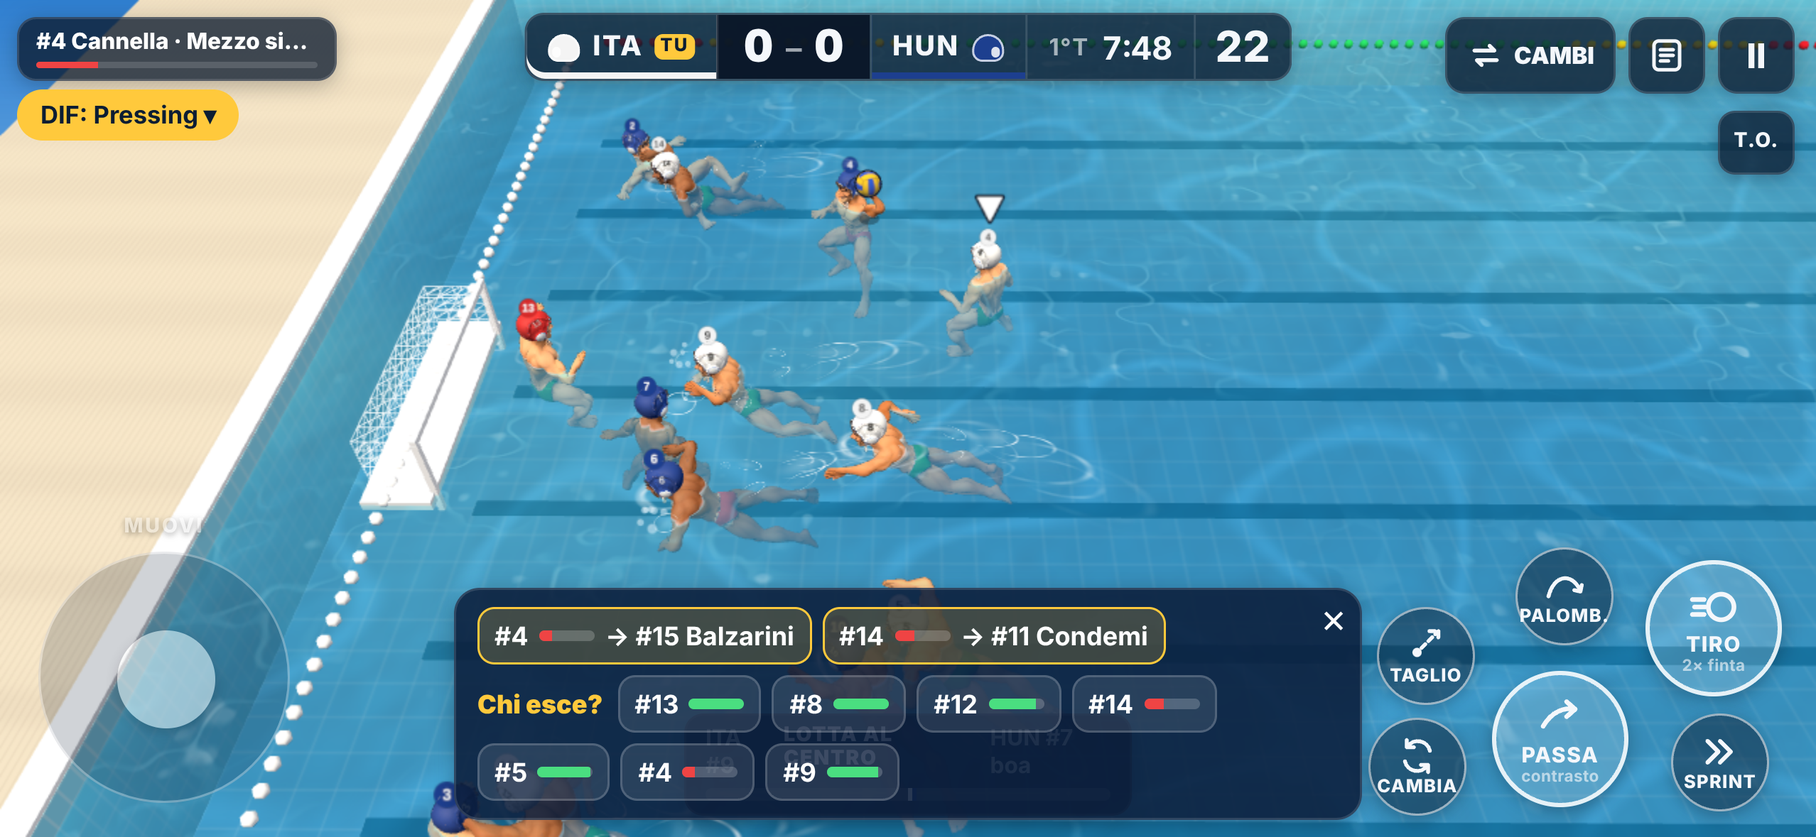
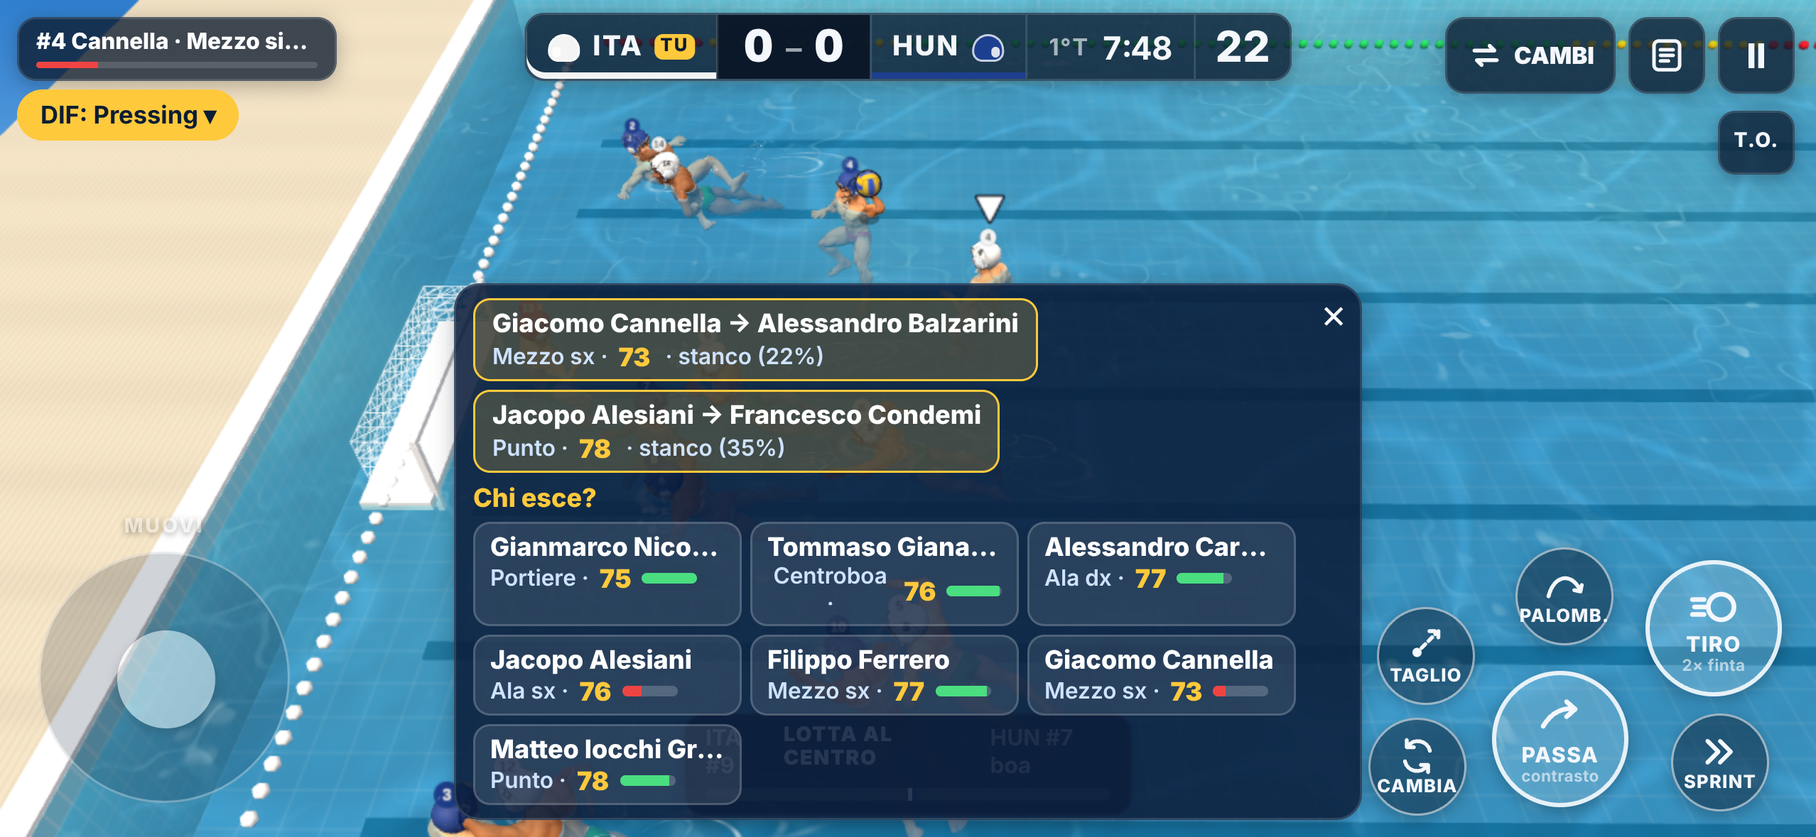
v0.34: cambi dal menu di pausa, nomi completi, ruolo e valutazione nei cambi, consigli con il motivo
- Il pulsante Cambi e panchina era finito nella prima pagina: ora sta nel menu di pausa
- Barra dei cambi volanti con nome e cognome, ruolo, valutazione e stamina
- Consigli con il motivo: stanco, 2 falli gravi, partita storta, chi in panchina ora rende di più; stesso ruolo prima

Claude-Session: https://claude.ai/code/session_01XAJhVTigiGoNKwMZvUN4DX

Changed region(s): [[0.2473, 0.3359, 0.7727, 0.9771]]

diff --git a/src/panchinaVista.js b/src/panchinaVista.js
@@ -2,14 +2,14 @@
 // e gol; suggerimenti per chi è stanco; si sceglie chi esce e chi entra e il cambio volante parte quando si riprende a giocare.
 import { CHIAVE, RUOLI, STAT_NOMI } from './dati/rose.js';
 import { iconaMano } from './mano.js';
-import { PANCHINA, annullaRichiesta, chiediCambio, suggerimento } from './panchina.js';
+import { PANCHINA, RUOLI_BREVI, annullaRichiesta, chiediCambio, consigli } from './panchina.js';
 import { teams } from './stato.js';
 let sel = null;      // giocatore in acqua scelto per uscire
 const barra = s => { const v = Math.round((s ?? 1) * 100); return `<span class="pc-bar ${v < PANCHINA.stanco * 100 ? 'stanco' : v < 65 ? 'medio' : ''}"><i style="width:${v}%"></i></span><b class="pc-pct">${v}%</b>`; };
 const chiave = g => CHIAVE[g.ruolo].map(k => `${STAT_NOMI[k].slice(0, 3).toUpperCase()} ${g.s[k]}`).join(' · ');
 function riga(g, extra, cls, attr) {
   return `<button type="button" class="pc-g ${cls}" ${attr}><span class="pc-num">${g.num}</span>`
-    + `<span class="pc-nome">${g.nome}${iconaMano(g.mano)}<small>${RUOLI[g.ruolo]} · OVR ${g.ovr}${g.gol ? ` · ${g.gol} gol` : ''}${g.pf ? ` · ${g.pf} falli gravi` : ''}</small></span>`
+    + `<span class="pc-nome">${g.nomeIntero || g.nome}${iconaMano(g.mano)}<small>${RUOLI[g.ruolo]} · OVR ${g.ovr}${g.tiriP ? ` · ${g.gol || 0} gol su ${g.tiriP} tiri` : g.gol ? ` · ${g.gol} gol` : ''}${g.pf ? ` · ${g.pf} falli gravi` : ''}</small></span>`
     + `<span class="pc-stat">${chiave(g)}</span><span class="pc-stam">${barra(g.stamina)}</span>${extra || ''}</button>`;
 }
 export function disegnaPanchina() {
@@ -18,14 +18,11 @@ export function disegnaPanchina() {
   for (const p of t.players) if (p.scheda) p.scheda.stamina = p.stamina;
   const coda = t.coda || [];
   const inCoda = p => coda.find(x => x.esce === p), entraCoda = g => coda.find(x => x.entra === g);
-  // suggerimenti: prima i più stanchi, ogni riserva proposta una volta sola
-  const usate = new Set(coda.map(x => x.entra)), sugg = [];
-  for (const p of [...t.players].sort((a, b) => a.stamina - b.stamina)) {
-    if (inCoda(p) || p.isGK) continue;
-    const g = suggerimento(p, usate); if (g) { usate.add(g); sugg.push({ p, g }); }
-  }
+  // consigli con il motivo (stanco, chi rende di più, partita storta, falli): ogni riserva proposta una volta sola
+  const sugg = consigli(t, 4);
   let h = '';
-  if (sugg.length) h += `<div class="pc-sugg"><b>Consigliati</b>${sugg.map(x => `<button type="button" class="pc-cons" data-esce="${x.p.i}" data-entra="${x.g.num}">#${x.p.num} ${x.p.name} è stanco (${Math.round(x.p.stamina * 100)}%) → entra #${x.g.num} ${x.g.nome} <em>Cambia</em></button>`).join('')}</div>`;
+  if (sugg.length) h += `<div class="pc-sugg"><b>Consigliati</b>${sugg.map(x => `<button type="button" class="pc-cons" data-esce="${x.p.i}" data-entra="${x.g.num}"><span>Esce <strong>${x.p.scheda.nomeIntero || x.p.name}</strong> (${RUOLI_BREVI[x.p.scheda.ruolo]} · ${x.p.ovr}) → entra <strong>${x.g.nomeIntero || x.g.nome}</strong> (${RUOLI_BREVI[x.g.ruolo]} · ${x.g.ovr})<small>${x.motivo}</small></span><em>Cambia</em></button>`).join('')}</div>`;
+  else h += `<div class="pc-sugg"><b>Consigliati</b><span class="pc-ok">Per ora nessun cambio necessario: tutti in forma.</span></div>`;
   if (coda.length) h += `<div class="pc-coda"><b>Cambi alla ripresa</b>${coda.map(x => `<span>esce #${x.esce.num} → entra #${x.entra.num} ${x.entra.nome} <button type="button" class="pc-x" data-annulla="${x.esce.i}" aria-label="Annulla">✕</button></span>`).join('')}</div>`;
   h += `<h3>In acqua <small>${sel ? `scegli chi entra al posto di #${sel.num}` : 'tocca chi vuoi far uscire'}</small></h3><div class="pc-lista">`;
   const bloccato = p => p.excluded && p.pf >= 3;      // terzo fallo grave: esce comunque, entra la riserva in automatico
@@ -69,13 +66,15 @@ export function disegnaCambi(forza = true) {
   }
   const coda = t.coda || [], C = t.cambio;
   const inCoda = p => coda.find(x => x.esce === p) || (C && C.esce === p), entraCoda = g => coda.find(x => x.entra === g) || (C && C.entra === g);
-  const usate = new Set([...coda.map(x => x.entra), ...(C ? [C.entra] : [])]), sugg = [];
-  for (const p of [...t.players].sort((a, b) => a.stamina - b.stamina)) { if (inCoda(p) || p.isGK) continue; const g = suggerimento(p, usate); if (g) { usate.add(g); sugg.push({ p, g }); } if (sugg.length >= 2) break; }
+  const sugg = consigli(t, 2);
+  // scheda di un giocatore: nome e cognome, ruolo, valutazione e stamina (quello che serve per decidere al volo)
+  const gio = (g, st, q) => `<span class="cr-nome">${g.nomeIntero || g.nome}</span><span class="cr-info">${RUOLI_BREVI[g.ruolo]} · <b>${g.ovr}</b> ${mini(st, q)}</span>`;
   let h = '<button type="button" class="cr-chiudi" data-chiudi aria-label="Chiudi">✕</button>';
-  if (C || coda.length) h += `<div class="cr-riga cr-corso">${C ? `<span>in corso: esce #${C.esce.num} → entra #${C.entra.num}</span>` : ''}${coda.map(x => `<span>esce #${x.esce.num} → entra #${x.entra.num} <button type="button" data-annulla="${x.esce.i}">✕</button></span>`).join('')}</div>`;
-  if (sugg.length && !selR) h += `<div class="cr-riga">${sugg.map(x => `<button type="button" class="cr-cons" data-esce="${x.p.i}" data-entra="${x.g.num}">#${x.p.num} ${mini(x.p.stamina, 'c' + x.p.i)} → #${x.g.num} ${x.g.nome}</button>`).join('')}</div>`;
-  if (!selR) h += `<div class="cr-riga"><b>Chi esce?</b>${t.players.map(p => { const no = (p.excluded && p.pf >= 3) || inCoda(p); return `<button type="button" class="cr-g${no ? ' no' : ''}" data-campo="${p.i}">#${p.num}${p.excluded ? '<em>pozz.</em>' : ''}${mini(p.stamina, 'c' + p.i)}</button>`; }).join('')}</div>`;
-  else h += `<div class="cr-riga"><b>Al posto di #${selR.num}:</b>${t.rosa.filter(g => !g.inAcqua && !g.fuori && (g.ruolo === 0) === selR.isGK && !entraCoda(g)).map(g => `<button type="button" class="cr-g" data-riserva="${g.num}">#${g.num} ${g.nome}${mini(g.stamina, 'r' + g.num)}</button>`).join('') || '<span>nessuna riserva disponibile</span>'}<button type="button" class="cr-g no" data-indietro-c>‹</button></div>`;
+  const nomeDi = p => (p.scheda && p.scheda.nomeIntero) || p.name;
+  if (C || coda.length) h += `<div class="cr-riga cr-corso">${C ? `<span>in corso: esce ${nomeDi(C.esce)} → entra ${C.entra.nomeIntero || C.entra.nome}</span>` : ''}${coda.map(x => `<span>esce ${nomeDi(x.esce)} → entra ${x.entra.nomeIntero || x.entra.nome} <button type="button" data-annulla="${x.esce.i}">✕</button></span>`).join('')}</div>`;
+  if (sugg.length && !selR) h += `<div class="cr-riga cr-consigli">${sugg.map(x => `<button type="button" class="cr-cons" data-esce="${x.p.i}" data-entra="${x.g.num}"><span class="cr-nome">${nomeDi(x.p)} → ${x.g.nomeIntero || x.g.nome}</span><span class="cr-info">${RUOLI_BREVI[x.g.ruolo]} · <b>${x.g.ovr}</b> · ${x.motivo}</span></button>`).join('')}</div>`;
+  if (!selR) h += `<div class="cr-tit">Chi esce?</div><div class="cr-griglia">${t.players.map(p => { const no = (p.excluded && p.pf >= 3) || inCoda(p); return `<button type="button" class="cr-g${no ? ' no' : ''}${p.excluded ? ' pozz' : ''}" data-campo="${p.i}">${gio(p.scheda, p.stamina, 'c' + p.i)}</button>`; }).join('')}</div>`;
+  else h += `<div class="cr-tit">Al posto di ${nomeDi(selR)} (${RUOLI_BREVI[selR.scheda.ruolo]} · ${selR.ovr}) entra: <button type="button" class="cr-ind" data-indietro-c>‹ indietro</button></div><div class="cr-griglia">${t.rosa.filter(g => !g.inAcqua && !g.fuori && (g.ruolo === 0) === selR.isGK && !entraCoda(g)).sort((a, b) => b.ovr - a.ovr).map(g => `<button type="button" class="cr-g" data-riserva="${g.num}">${gio(g, g.stamina, 'r' + g.num)}</button>`).join('') || '<span>nessuna riserva disponibile</span>'}</div>`;
   box.innerHTML = h;
   const ok = () => { selR = null; disegnaCambi(); };
   box.querySelector('[data-chiudi]').onclick = () => apriCambi(false);

diff --git a/index.html b/index.html
@@ -73,7 +73,6 @@
     <div class="eroe" aria-hidden="true"><img src="./src/immagini/giocatore-home.webp" alt="" decoding="async"></div>
     <div class="h-azioni">
       <button type="button" class="m-cta" data-va="squadre"><span class="m-play"></span><span><b>Nuova partita</b><small>Scegli le squadre e gioca</small></span><i>›</i></button>
-      <button type="button" class="m-voce" data-va="panchina" id="vaiPanchina"><svg viewBox="0 0 24 24"><circle cx="8" cy="7.5" r="2.6" fill="currentColor"/><circle cx="16" cy="7.5" r="2.6" fill="currentColor"/><path d="M3.5 15.5c0-2.4 2-4 4.5-4s4.5 1.6 4.5 4M11.5 15.5c0-2.4 2-4 4.5-4s4.5 1.6 4.5 4M2.5 17.5h19M5 17.5v3M19 17.5v3" fill="none" stroke="currentColor" stroke-width="2" stroke-linecap="round"/></svg><span><b>Panchina</b><small>stamina e cambi</small></span><i>›</i></button>
       <button type="button" class="m-voce" data-va="comandi"><svg viewBox="0 0 24 24"><path d="M7 7.5h10a5.5 5.5 0 0 1 0 11c-1.8 0-2.8-1-3.6-2.1h-2.8C9.8 17.5 8.8 18.5 7 18.5a5.5 5.5 0 0 1 0-11z" fill="currentColor"/><path d="M7.5 10.5v4M5.5 12.5h4" stroke="#0b2a55" stroke-width="1.8" stroke-linecap="round"/><circle cx="16" cy="11.5" r="1.2" fill="#0b2a55"/><circle cx="18" cy="14" r="1.2" fill="#0b2a55"/></svg><span><b>Comandi</b><small>Impara le azioni di gioco</small></span><i>›</i></button>
       <button type="button" class="m-voce" data-va="info"><svg viewBox="0 0 24 24"><circle cx="9" cy="8" r="3.5" fill="currentColor"/><circle cx="17" cy="9" r="2.8" fill="currentColor"/><path d="M2.5 19c.6-3.6 3.2-5.5 6.5-5.5s5.9 1.9 6.5 5.5zM15.5 13.3c2.9-.3 5.4 1.3 6 4.7h-5" fill="currentColor"/></svg><span><b>Informazioni</b><small>Regole e suggerimenti</small></span><i>›</i></button>
     </div>
@@ -151,6 +150,7 @@
     <div class="pausa-punteggio" id="pausaPunteggio"></div>
     <div class="h-azioni">
       <button type="button" class="m-cta" id="riprendi"><span class="m-play"></span><span><b>Riprendi</b></span><i>›</i></button>
+      <button type="button" class="m-voce" data-va="panchina" id="vaiPanchina"><svg viewBox="0 0 24 24"><circle cx="8" cy="7.5" r="2.6" fill="currentColor"/><circle cx="16" cy="7.5" r="2.6" fill="currentColor"/><path d="M3.5 15.5c0-2.4 2-4 4.5-4s4.5 1.6 4.5 4M11.5 15.5c0-2.4 2-4 4.5-4s4.5 1.6 4.5 4M2.5 17.5h19M5 17.5v3M19 17.5v3" fill="none" stroke="currentColor" stroke-width="2" stroke-linecap="round"/></svg><span><b>Cambi e panchina</b><small>chi è stanco, chi entra</small></span><i>›</i></button>
       <button type="button" class="m-voce" data-va="comandi"><svg viewBox="0 0 24 24"><path d="M7 7.5h10a5.5 5.5 0 0 1 0 11c-1.8 0-2.8-1-3.6-2.1h-2.8C9.8 17.5 8.8 18.5 7 18.5a5.5 5.5 0 0 1 0-11z" fill="currentColor"/><path d="M7.5 10.5v4M5.5 12.5h4" stroke="#0b2a55" stroke-width="1.8" stroke-linecap="round"/><circle cx="16" cy="11.5" r="1.2" fill="#0b2a55"/><circle cx="18" cy="14" r="1.2" fill="#0b2a55"/></svg><span><b>Comandi</b></span><i>›</i></button>
       <button type="button" class="m-voce" data-va="opzioni"><svg viewBox="0 0 24 24"><path d="M12 8.5a3.5 3.5 0 1 0 0 7 3.5 3.5 0 0 0 0-7zm8.4 4.6l1.8 1.4-2 3.4-2.1-.8a7.6 7.6 0 0 1-1.9 1.1l-.3 2.3h-3.9l-.4-2.3a7.6 7.6 0 0 1-1.9-1.1l-2.1.8-2-3.4 1.8-1.4a7.7 7.7 0 0 1 0-2.2L1.8 9.6l2-3.4 2.1.8a7.6 7.6 0 0 1 1.9-1.1l.4-2.3h3.9l.3 2.3c.7.3 1.3.6 1.9 1.1l2.1-.8 2 3.4-1.8 1.4c.1.7.1 1.5 0 2.2z" fill="currentColor"/></svg><span><b>Opzioni</b></span><i>›</i></button>
     </div>
@@ -159,7 +159,7 @@
 
   <!-- PANCHINA (dalla pausa) -->
   <section class="vista" id="vPanchina">
-    <header class="m-testa"><button type="button" class="m-icona" data-indietro aria-label="Indietro">‹</button><h2>Panchina</h2></header>
+    <header class="m-testa"><button type="button" class="m-icona" data-indietro aria-label="Indietro">‹</button><h2>Cambi e panchina</h2></header>
     <div id="panchinaBox"></div>
   </section>
 

diff --git a/src/panchina.js b/src/panchina.js
@@ -136,3 +136,40 @@ export function aggiornaPanchina(dt, liberi = false) {
 }
 // dove deve andare chi sta uscendo (al posto del suo compito in campo)
 export function obiettivoUscita(p) { const Z = zonaCambi(p.team); return { x: Z.x, z: Z.z, sprint: true }; }
+
+// ---------- consigli per il giocatore (barra dei cambi e schermata Cambi e panchina) ----------
+// Tre motivi, con il più urgente per primo: è stanco; in panchina c'è chi adesso renderebbe di più (valutazione pesata
+// sulla stamina); sta giocando una partita storta (tanti tiri senza gol) o ha 2 falli gravi e rischia di uscire per sempre.
+export const RUOLI_BREVI = ['Portiere', 'Centroboa', 'Ala dx', 'Ala sx', 'Mezzo dx', 'Mezzo sx', 'Punto'];
+export const valoreAdesso = (ovr, stamina) => ovr * (0.8 + 0.2 * (stamina ?? 1));
+function migliorRiserva(t, p, usate) {
+  let best = null, bv = -1e9;
+  for (const g of t.rosa) {
+    if (g.inAcqua || g.fuori || usate.has(g) || (g.ruolo === 0) !== p.isGK) continue;
+    // stesso ruolo prima di tutto; poi lo stesso tipo (ala con ala, mezzo con mezzo, centroboa e punto tra loro); poi gli altri
+    const a = g.ruolo, b = p.scheda.ruolo, tipoR = r => r === 1 || r === 6 ? 'c' : r === 2 || r === 3 ? 'a' : 'm';
+    const v = valoreAdesso(g.ovr, g.stamina) + (a === b ? 12 : tipoR(a) === tipoR(b) ? 7 : 0);
+    if (v > bv) { bv = v; best = g; }
+  }
+  return best;
+}
+export function consigli(t, max = 3) {
+  const usate = new Set([...(t.coda || []).map(x => x.entra), ...(t.cambio ? [t.cambio.entra] : [])]);
+  const occupato = p => (t.coda || []).some(x => x.esce === p) || (t.cambio && t.cambio.esce === p);
+  const cand = [];
+  for (const p of t.players) {
+    if (p.isGK || !p.scheda || occupato(p) || (p.excluded && (p.pf >= 3 || !p.alPozzetto))) continue;
+    const g = migliorRiserva(t, p, usate); if (!g) continue;
+    const ora = valoreAdesso(p.ovr, p.stamina), dopo = valoreAdesso(g.ovr, g.stamina), sc = p.scheda;
+    let motivo = null, peso = 0;
+    if (p.stamina < 0.5 && dopo > ora - 4) { motivo = `stanco (${Math.round(p.stamina * 100)}%)`; peso = 60 + (0.5 - p.stamina) * 100; }
+    else if (p.pf >= 2) { motivo = '2 falli gravi: al terzo esce per sempre'; peso = 40; }
+    else if ((sc.tiriP || 0) >= 4 && !(sc.gol)) { motivo = `partita storta (0 gol su ${sc.tiriP} tiri)`; peso = 30; }
+    else if (dopo > ora + 3) { motivo = `in panchina c'è chi ora rende di più (${Math.round(dopo)} contro ${Math.round(ora)})`; peso = 10 + dopo - ora; }
+    if (motivo) cand.push({ p, g, motivo, peso });
+  }
+  cand.sort((a, b) => b.peso - a.peso);
+  const out = [], prese = new Set();
+  for (const c of cand) { let g = c.g; if (prese.has(g)) { g = migliorRiserva(t, c.p, new Set([...usate, ...prese])); if (!g) continue; } prese.add(g); out.push({ ...c, g }); if (out.length >= max) break; }
+  return out;
+}

diff --git a/src/stile.css b/src/stile.css
@@ -498,3 +498,27 @@ body.touch #tCambi{right:calc(94px + var(--sr))}
 #rosa .fm-ripristina{grid-column:1/-1;justify-self:start;margin-top:6px;background:none;border:1px solid rgba(255,255,255,.35);color:#fff;border-radius:8px;padding:6px 10px;cursor:pointer}
 #rosa .fm-dati{display:block;font-size:11px;color:#9fc3ef;margin-top:2px}
 #rosa .fm-fonte{font-size:11px;color:#9fc3ef}
+
+/* barra dei cambi con nome e cognome, ruolo e valutazione (richiesta di Ale) */
+#cambiBox{max-width:min(640px,calc(100vw - 280px));max-height:calc(100vh - 120px);overflow:auto}
+.cr-tit{font:800 12px system-ui;color:var(--h-oro)}
+.cr-ind{background:none;border:1px solid rgba(255,255,255,.35);color:#fff;border-radius:6px;font:700 11px system-ui;margin-left:6px;cursor:pointer}
+.cr-griglia{display:grid;grid-template-columns:repeat(auto-fill,minmax(150px,1fr));gap:5px}
+.cr-griglia .cr-g{flex-direction:column;align-items:flex-start;gap:2px;padding:5px 8px;min-width:0}
+.cr-g.pozz{border-color:#fca5a5}
+.cr-nome{display:block;font:800 12.5px system-ui;white-space:nowrap;overflow:hidden;text-overflow:ellipsis;max-width:100%}
+.cr-info{display:flex;align-items:center;gap:5px;font:600 11px system-ui;color:#cfe3ff}
+.cr-info b{color:var(--h-oro);font-size:12px}
+.cr-consigli .cr-cons{flex-direction:column;align-items:flex-start;gap:1px}
+.pc-cons{display:flex;align-items:center;gap:10px;justify-content:space-between;width:100%}
+.pc-cons small{display:block;font-weight:600;color:#ffd77a;font-size:12px;margin-top:2px}
+.pc-cons span b{color:#fff}
+.pc-ok{color:#cfe3ff;font-weight:600}
+@media (max-width:720px){ #cambiBox{max-width:calc(100vw - 200px)} .cr-griglia{grid-template-columns:repeat(auto-fill,minmax(128px,1fr))} }
+/* barra compatta: tre colonne, schede basse */
+#cambiBox{padding:6px 30px 6px 8px;gap:4px;max-width:min(700px,calc(100vw - 250px))}
+.cr-griglia{grid-template-columns:repeat(3,minmax(0,1fr));gap:4px}
+.cr-griglia .cr-g{padding:3px 7px;gap:0}
+.cr-nome{font-size:12px}.cr-info{font-size:10.5px}
+.cr-consigli{gap:4px}.cr-consigli .cr-cons{padding:3px 8px}
+.pc-cons strong{color:#fff}

diff --git a/src/statistiche.js b/src/statistiche.js
@@ -26,7 +26,7 @@ export function tipoDiTiro(p,ball){
   return 'perimetro';
 }
 // in più: tiri da oltre 8 metri, tiri senza nessun difensore tra chi tira e la porta (rigori esclusi)
-export function registraTiro(p,tipo){ const s=di(p.team); s.tiri++;
+export function registraTiro(p,tipo){ const s=di(p.team); s.tiri++; if(p.scheda) p.scheda.tiriP=(p.scheda.tiriP||0)+1;      // tiri del giocatore in questa partita (consigli dei cambi)
   const dPorta=Math.hypot(p.team.dir*12.5-p.x,p.z); ball.distTiro=dPorta; if(dPorta>8) s.tiriLontani++;
   if(tipo!=='rigore'&&difensoriDavanti(p)===0) s.tiriSoli++; s.tiriTipo[tipo]++; s.etaPossesso+=game.time-(game.possT||0); const g=p.act?p.act.kind:'altro'; s.gesti[g]=(s.gesti[g]||0)+1; }
 export function registraGol(t,ball){

diff --git a/src/giocatori.js b/src/giocatori.js
@@ -48,7 +48,7 @@ export function applicaSquadre(codA,codB){
     // formazione scelta nella schermata Squadre (se c'è ed è valida)
     const F=formazioni[cod]; if(formazioneValida(R,F)) for(let i=0;i<7;i++) posto[i]=R.findIndex(g=>g.num===F[i]);
     // la panchina riparte da capo: tutti freschi, nessun gol, nessun fallo; in acqua i titolari
-    for(const g of R){ g.inAcqua=false; g.stamina=1; g.gol=0; g.pf=0; g.fuori=false; }
+    for(const g of R){ g.inAcqua=false; g.stamina=1; g.gol=0; g.tiriP=0; g.pf=0; g.fuori=false; }
     t.cambio=null; t.coda=[];
     for(const p of t.players){ p.scheda=null; vesti(p,R[posto[p.i]]); }
   });

diff --git a/CLAUDE.md b/CLAUDE.md
@@ -128,6 +128,7 @@ Cose da NON copiare: è un pre-alpha senza interfaccia, senza avversari visibili
 - v0.33 FATTO (sezione 6): ESPULSIONI CON IL POZZETTO (`src/pozzetto.js`). L'espulso NON sparisce più: nuota (di corsa se lontano) fino al pozzetto (`puntoPozzetto`: angolo della propria metà sul lato lontano dalla giuria, fuori dalle corde, z = -HW-1) mentre la partita continua (`obiettivoEspulso`; in `movePlayer` l'espulso può uscire dal campo fino al bordo); lì aspetta in verticale e visibile e recupera stamina in fretta (`POZZETTO.recupero` 0,05/s). Rientra SOLO dal pozzetto: a tempo scaduto o con la palla riconquistata (`puoRientrare`), appena ci arriva (`partita.js`); dopo un gol rientrano tutti come prima. CAMBIO DAL POZZETTO senza cinque (regola 2025): richiesto dalla panchina (anche per un espulso, non per chi ha 3 falli) o dal computer (`stancoPozzetto` 0,8, valutato appena arriva); avviene quando l'espulso è arrivato, l'espulsione continua e chi entra rientra quando finisce (`cambioPozzetto` in `panchina.js`, comparsa visibile 1,4 s). AL RIENTRO il computer sceglie (`sceltaRientro`/`obiettivoRientro`, 4 s): palla della sua squadra → controfuga lungo il lato lontano; palla avversaria a meno di 10 m dalla propria porta → su chi ha la palla. `npm run sezione6` (`--foto`: `docs/immagini/pozzetto.png`). Bilancio (8 partite ITA–HUN, per squadra): 18,6 gol, 46,2 tiri (40%), 8,9 espulsioni (78% lotta al centro), tiri in controfuga 13% (Mondiali 3%: da ritarare).
 - v0.33 anche (correzione di Ale dopo aver visto la v0.32: «le sostituzioni non solo prima della partita: soprattutto DURANTE il gioco; sono illimitate»; la scelta dei 7 va fatta quando si sceglie la squadra): FORMAZIONE nella schermata Squadre (`#rosaBox` «Formazione: scegli i 7 in acqua», `disegnaRosa` in `menu.js`): 7 posti (portiere, centroboa, ali, mezzi, punto) e panchina; tocchi un posto e poi una riserva o un altro posto per scambiarli (il portiere solo con un portiere); ricordata per nazionale (`formazioni` e `formazioneValida` in `giocatori.js`, `localStorage` «pallanuoto-formazione-ITA»); «Formazione di partenza» la ripristina. CAMBI DURANTE IL GIOCO SENZA PAUSA: pulsante «CAMBI» in alto a destra (`#tCambi`, anche con il mouse) e tasto B aprono una barra compatta in basso (`#cambiBox`, `apriCambi`/`disegnaCambi` in `panchinaVista.js`): due cambi consigliati con un tocco, oppure «Chi esce?» e poi la riserva; il cambio volante parte subito e la partita non si ferma; ogni mezzo secondo si aggiornano solo le barrette della stamina (un tocco non va perso); ridisegno completo quando un cambio parte o finisce. La schermata Panchina in pausa resta per le statistiche complete. Cambi illimitati; fuori per sempre solo chi arriva a 3 espulsioni (brutalità e gioco violento non implementati, decisione di Ale). `npm run sezione5` prova anche questo; foto da telefono con `npm run vetrina-cambi` (`docs/immagini/cambi-in-gioco.png`, `formazione.png`).
 - v0.34 FATTO (richiesta di Ale: «usa questo database per calcolare le performance dei giocatori»): ROSE E VALUTAZIONI VERE dal database di Ale (`waterpolo_database`, 13/11/2026). Estratto delle 16 nazionali in `dati-sorgente/database-giocatori.json`; `npm run rose-db` (`strumenti/rose-dal-database.mjs`) scrive `src/dati/rose-db.json`, che `rosa()` in `src/dati/rose.js` usa al posto del generatore (che resta per squadre senza dati). Metodo completo in `docs/valutazioni.md` (in cima): convocazione più recente, 2 portieri + 11 di movimento più impiegati, numeri/ruoli/mano/altezza/nascita veri; la forza della squadra resta quella del ranking e le statistiche dei tornei decidono chi è più forte DENTRO la squadra (ricentrate per squadra, prudenza verso la media per chi ha giocato poco); titolari scelti posto per posto. Mano dal database (13 mancini, 26 sconosciute = destra); `mancini.json` ora serve solo per correzioni. «18C»/«18F» = espulsioni COMMESSE (al centro / in campo), verificato sui ruoli. Schede della formazione con i dati dei tornei (partite, gol/tiri, assist; parate per i portieri) e la fonte. Formazioni ricordate con la nuova chiave «pallanuoto-formazione2-». Prova dei rigori: fascia 70-86% (tesi 80,1%, Mondiali 2025 75%); con le rose vere 73%. Bilancio (8 partite ITA–HUN, per squadra): 18 gol, 46,4 tiri (38,8%), 9,1 espulsioni (66% lotta al centro). Correzioni dei nomi in `NOMI_CORRETTI` (strumento): «KARLO Babic» → Babić Karlo (confermato da Ale). Da verificare con Ale: ruoli assegnati, mani sconosciute.
+- v0.34 anche (correzioni di Ale dopo aver giocato la v0.33): ERRORE trovato: il pulsante «Panchina» era finito nella HOME (la prima sostituzione di testo aveva colpito il primo «Comandi», quello della home) invece che nella pausa: ora «Cambi e panchina» sta nel menu di PAUSA (`#vaiPanchina` dentro `#vPausa`). Nella barra dei cambi volanti e nei consigli si vedono NOME E COGNOME (`nomeIntero`, «Marco Del Lungo», calcolato dallo strumento), RUOLO e VALUTAZIONE (OVR) con la stamina, su tre colonne. CONSIGLI con il motivo (`consigli` in `panchina.js`): stanco (sotto 50%); 2 falli gravi (al terzo esce per sempre); partita storta (0 gol con 4+ tiri, `tiriP` contato in `registraTiro`); in panchina c'è chi ora rende di più (`valoreAdesso` = OVR pesato sulla stamina); la riserva scelta è prima dello stesso ruolo, poi dello stesso tipo (ali, mezzi, centroboa/punto). Foto: `npm run vetrina-cambi` (`docs/immagini/cambi-in-gioco.png`, `pausa.png`, `panchina.png`, `formazione.png`).
 - BILANCIAMENTO DA FARE (dopo le sezioni 1-6): tiri per squadra ~46 contro 33 dei Mondiali, gol ~19 contro 13, espulsioni ~9 contro 11, rigori ~1 contro 1,8, tiri in controfuga 13% contro 3%.
 - DA FARE PIÙ AVANTI (segnato da Ale): chiamata degli schemi in attacco e per l'uomo in più da parte del giocatore; fallo in attacco anche senza palla per chi taglia dopo aver chiamato uno schema.
 
